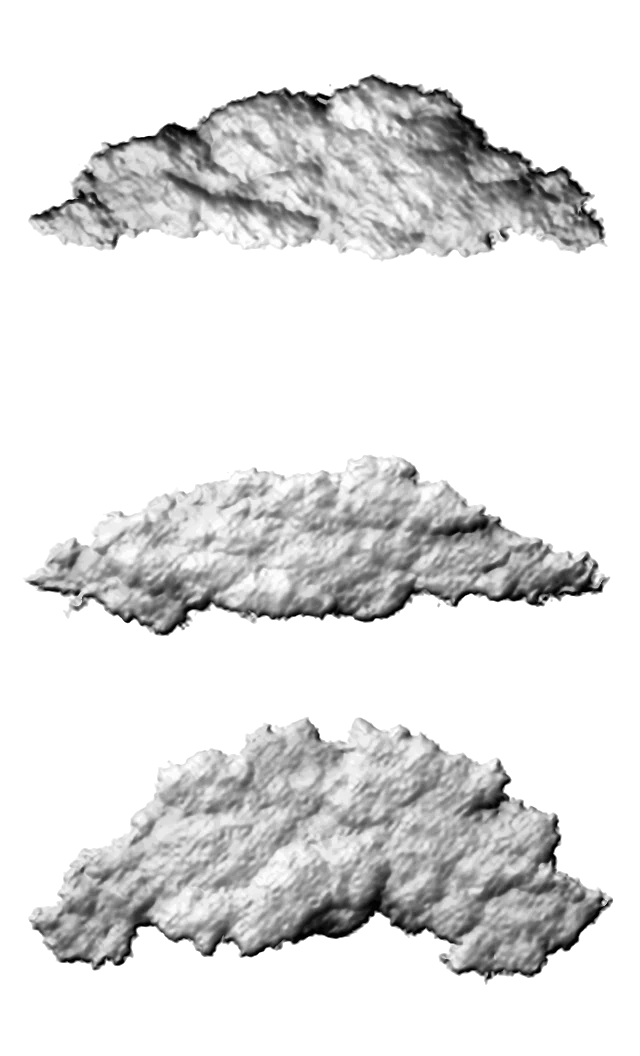
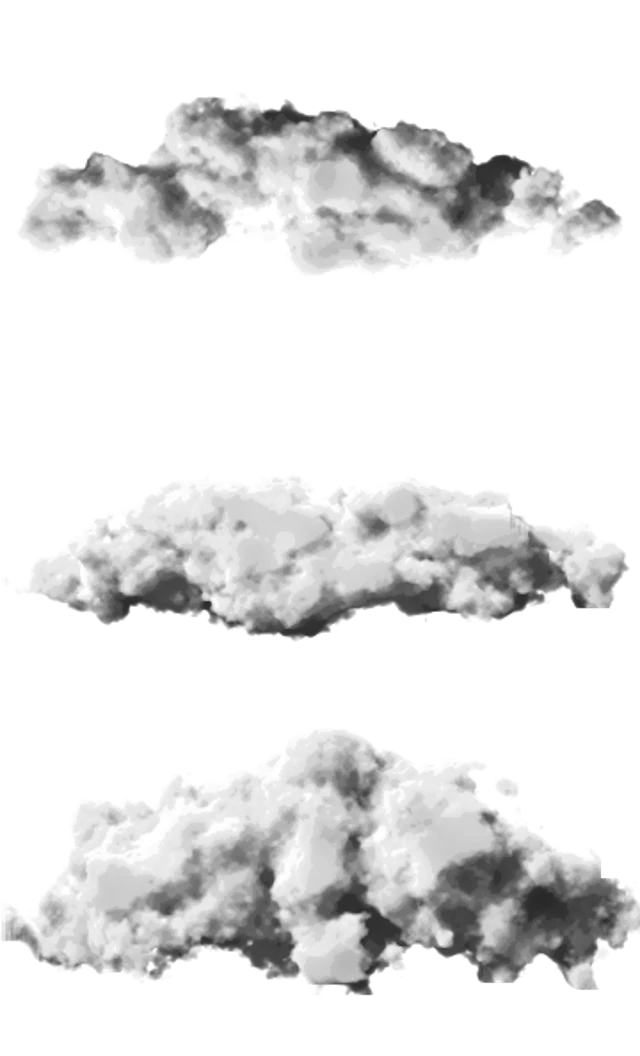
wip(dream-lantern): sky cloud deck, darker night palette, mirrored relief tiles

Changed region(s): [[0.0, 0.6562, 1.0, 0.9375], [0.0312, 0.0625, 0.9688, 0.2812], [0.0312, 0.4062, 1.0, 0.625]]

diff --git a/assets/dream-lantern/scenes/sky/paint_clouds.py b/assets/dream-lantern/scenes/sky/paint_clouds.py
@@ -1,71 +1,96 @@
-"""Paint the cloud relief atlas. Run with Python, NumPy, SciPy and Pillow."""
+"""Render the original cloud atlas. Requires Python, NumPy, SciPy and Pillow."""
 from pathlib import Path
 
 import numpy as np
 from PIL import Image
-from scipy.ndimage import gaussian_filter, map_coordinates, shift
+from scipy.ndimage import gaussian_filter, shift, zoom
 
 
-def paint(seed, tower=False, underlit=False):
+def wash(rng, shape, spacing):
+    low = tuple(max(4, round(size / spacing) + 1) for size in shape)
+    lattice = rng.standard_normal(low).astype("f")
+    return zoom(lattice, np.divide(shape, low), order=2, prefilter=True)
+
+
+def cloud(seed, tower=False, underlit=False):
+    """Sculpt a density field, march towards the sun, then paint through the field."""
     rng = np.random.default_rng(seed)
-    h, w = 352, 640
-    y, x = np.indices((h, w), dtype=float)
-
-    def wash(scale):
-        paper = rng.normal(size=(int(h / scale) + 4, int(w / scale) + 4))
-        return map_coordinates(paper, (1 + y / scale, 1 + x / scale), order=3)
-
-    def turbulence():
-        return sum(wash(s) * a for s, a in ((55, 5.5), (19, 2.8), (7, 1.25), (3, .42)))
-
-    sx, sy = x + turbulence(), y + turbulence()
-    front = np.zeros_like(x) - 75
-    silhouette = np.zeros_like(x) - 75
+    nz, ny, nx = shape = (67, 202, 360)
     masses = []
-    for u in np.linspace(-1, 1, 11):
-        arch = max(0, 1 - u * u)
-        cx = w * (.5 + u * .38)
-        cy = h * (.63 - arch * (.25 if tower else .09)) + rng.normal(0, 12)
-        size = (30 + arch * 56) * rng.uniform(.76, 1.12)
-        masses.append((cx, cy, size * 1.24, size * (.97 if tower else .66), rng.uniform(-16, 6)))
+    for u in np.linspace(-1, 1, 10):
+        bump = 1 - u * u
+        x, y = 180 + 146 * u, 128 - bump * (41 if tower else 15) + rng.normal(0, 5)
+        radius = (15 + 28 * bump) * rng.uniform(.84, 1.12)
+        masses.append((x, y, 31 + rng.uniform(-5, 5), radius * 1.32,
+                       radius * (1.13 if tower else .73), radius * .60))
     if tower:
-        masses.extend([(320, 115, 86, 78, -15), (360, 91, 51, 48, -1)])
-    # Grow smaller turrets on the parent forms. Each has its own depth.
-    for cx, cy, rx, ry, cz in list(masses):
-        for _ in range(9):
-            a, r = rng.uniform(0, 2 * np.pi), rng.uniform(.27, .55)
-            masses.append((cx + np.cos(a) * rx * .77, cy + np.sin(a) * ry * .8,
-                           rx * r, ry * r, cz + rx * rng.uniform(.15, .63)))
-    fine = wash(18) * 1.8 + wash(5) * .38
-    for cx, cy, rx, ry, cz in masses:
-        d = 1 - ((sx - cx) / rx) ** 2 - ((sy - cy) / ry) ** 2
-        silhouette = np.maximum(silhouette, d * min(rx, ry) * .5)
-        cap = np.sqrt(np.maximum(d, 0)) * rx * .78 + cz
-        front = np.maximum(front, np.where(d >= 0, cap, -75))
+        masses.extend([(184, 71, 28, 47, 44, 26), (208, 62, 32, 30, 30, 17)])
+    for x, y, z, rx, ry, rz in list(masses):
+        for _ in range(7):
+            a = rng.uniform(-2.9, 2.9)
+            k = rng.uniform(.31, .61)
+            masses.append((x + rx * .75 * np.cos(a), y + ry * .74 * np.sin(a),
+                           z + rz * rng.uniform(-.77, .40), rx * k, ry * k, rz * k))
+    field = np.full(shape, -18., dtype="f")
+    for cx, cy, cz, rx, ry, rz in masses:
+        region = tuple(slice(max(0, int(c - r - 12)), min(n, int(c + r + 13)))
+                       for c, r, n in ((cz, rz, nz), (cy, ry, ny), (cx, rx, nx)))
+        zz, yy, xx = np.ogrid[region]
+        d = 1 - np.sqrt(((xx - cx) / rx) ** 2 + ((yy - cy) / ry) ** 2 + ((zz - cz) / rz) ** 2)
+        field[region] = np.maximum(field[region], d * min(rx, ry, rz))
+    for size, weight in [(25, 3.8), (11, 2.1), (5, .98), (2.5, .5)]:
+        field += wash(rng, shape, size) * weight
+    density = np.clip((field + .85) * .29, 0, 1)
+    sun_y = .65 if underlit else -.77
+    # Optical depth towards a grazing sun. Integrating thickness (rather than a
+    # surface normal) lets the light penetrate edges and neighbouring lobes.
+    depth = np.zeros_like(field)
+    for distance, step in [(1, 2), (4, 3), (8, 4), (13, 5), (20, 8), (31, 12), (46, 14)]:
+        delta = (round(.40 * distance), round(-sun_y * distance), round(.70 * distance))
+        depth += shift(density, delta, order=0, mode="constant", prefilter=False) * step
+    light = .11 + .76 * np.exp(-depth * .073) + .13 * np.exp(-depth * .014)
+    light += .035 * wash(rng, shape, 18)
+    pigment = np.zeros((ny, nx), dtype="f")
+    transmittance = np.ones_like(pigment)
+    for d, lum in zip(density, light):
+        absorb = 1 - np.exp(-d * .59)
+        pigment += transmittance * absorb * lum
+        transmittance *= 1 - absorb
+    alpha = 1 - transmittance
+    pigment /= np.maximum(alpha, 1e-6)
+    pigment = .56 * pigment + .44 * np.round(pigment * 11) / 11
+    gray = np.uint8(np.clip(pigment, 0, 1) * 255)
+    return Image.fromarray(np.dstack((gray, gray, gray, np.uint8(alpha * 255)))).resize(
+        (640, 352), Image.Resampling.BICUBIC)
 
-    height = gaussian_filter(front, 3.0) + fine
-    dy, dx = np.gradient(height)
-    sun_y = .70 if underlit else -.72
-    normal_light = (.64 * dx + sun_y * -dy + .47) / np.sqrt(1 + dx * dx + dy * dy)
-    # Cast short shadows from one tuft onto the next, then soften into pigment.
-    shadow = np.zeros_like(x)
-    for dist in (5, 12, 24, 42):
-        occluder = shift(height, (-sun_y * dist, .64 * dist), order=1, mode="nearest")
-        shadow = np.maximum(shadow, occluder - height - .5 * dist)
-    light = .32 + .42 * normal_light + .0032 * np.clip(height, -40, 90)
-    light -= .25 * (1 - np.exp(-gaussian_filter(shadow, 2) / 15))
-    edge = np.clip(1 - np.maximum(silhouette, 0) / 11, 0, 1)
-    light += .14 * edge * np.clip(normal_light + .32, 0, 1)
-    light = np.clip(light + .012 * wash(9), .025, 1)
-    # Broken gouache washes with a trace of the continuous modelling underneath.
-    pigment = np.round(light * 15) / 15 * .46 + .54 * light
-    alpha = np.clip((silhouette + 2.4) / 5.5, 0, 1)
-    values = (pigment * 253).astype(np.uint8)
-    return Image.fromarray(np.dstack([values, values, values, (alpha * 255).astype(np.uint8)]))
+
+def deck(tiles):
+    """A continuous deck underneath the moving cloud towers, fading into mist."""
+    rng = np.random.default_rng(461)
+    w, h = 960, 320
+    y, x = np.indices((h, w))
+    floor = 96 + 24 * (1 - y / h) + 7 * np.sin(x / 88 + y / 27)
+    canvas = Image.fromarray(np.uint8(floor)).convert("RGBA")
+    for v in np.linspace(.015, 1.27, 28):
+        size = int(14 + v ** 1.35 * 238)
+        for j in range(-1, w // size * 2 + 3):
+            tile = tiles[rng.integers(0, 2)]
+            if j % 2:
+                tile = tile.transpose(Image.Transpose.FLIP_LEFT_RIGHT)
+            sw = int(size * rng.uniform(1.1, 1.8))
+            sh = int(size * rng.uniform(.24, .40))
+            stamp = tile.resize((sw, max(2, sh)), Image.Resampling.LANCZOS)
+            canvas.alpha_composite(stamp, (int((j + rng.random() * .8) * size / 2),
+                                           int(v * h - sh * .65 + rng.random() * size * .08)))
+    return canvas
 
 
 if __name__ == "__main__":
+    folder = Path(__file__).parent
+    stamps = [cloud(301, underlit=True), cloud(742), cloud(931, tower=True)]
     sheet = Image.new("RGBA", (640, 1056))
-    for i, tile in enumerate([paint(301, underlit=True), paint(742), paint(931, tower=True)]):
+    for i, tile in enumerate(stamps):
         sheet.paste(tile, (0, 352 * i))
-    sheet.save(Path(__file__).with_name("cloud-relief.webp"), quality=88, method=6)
+    sheet.save(folder / "cloud-relief.webp", quality=90, method=6)
+    deck(stamps).convert("RGB").save(folder / "cloud-deck.webp", quality=89, method=6)
+
